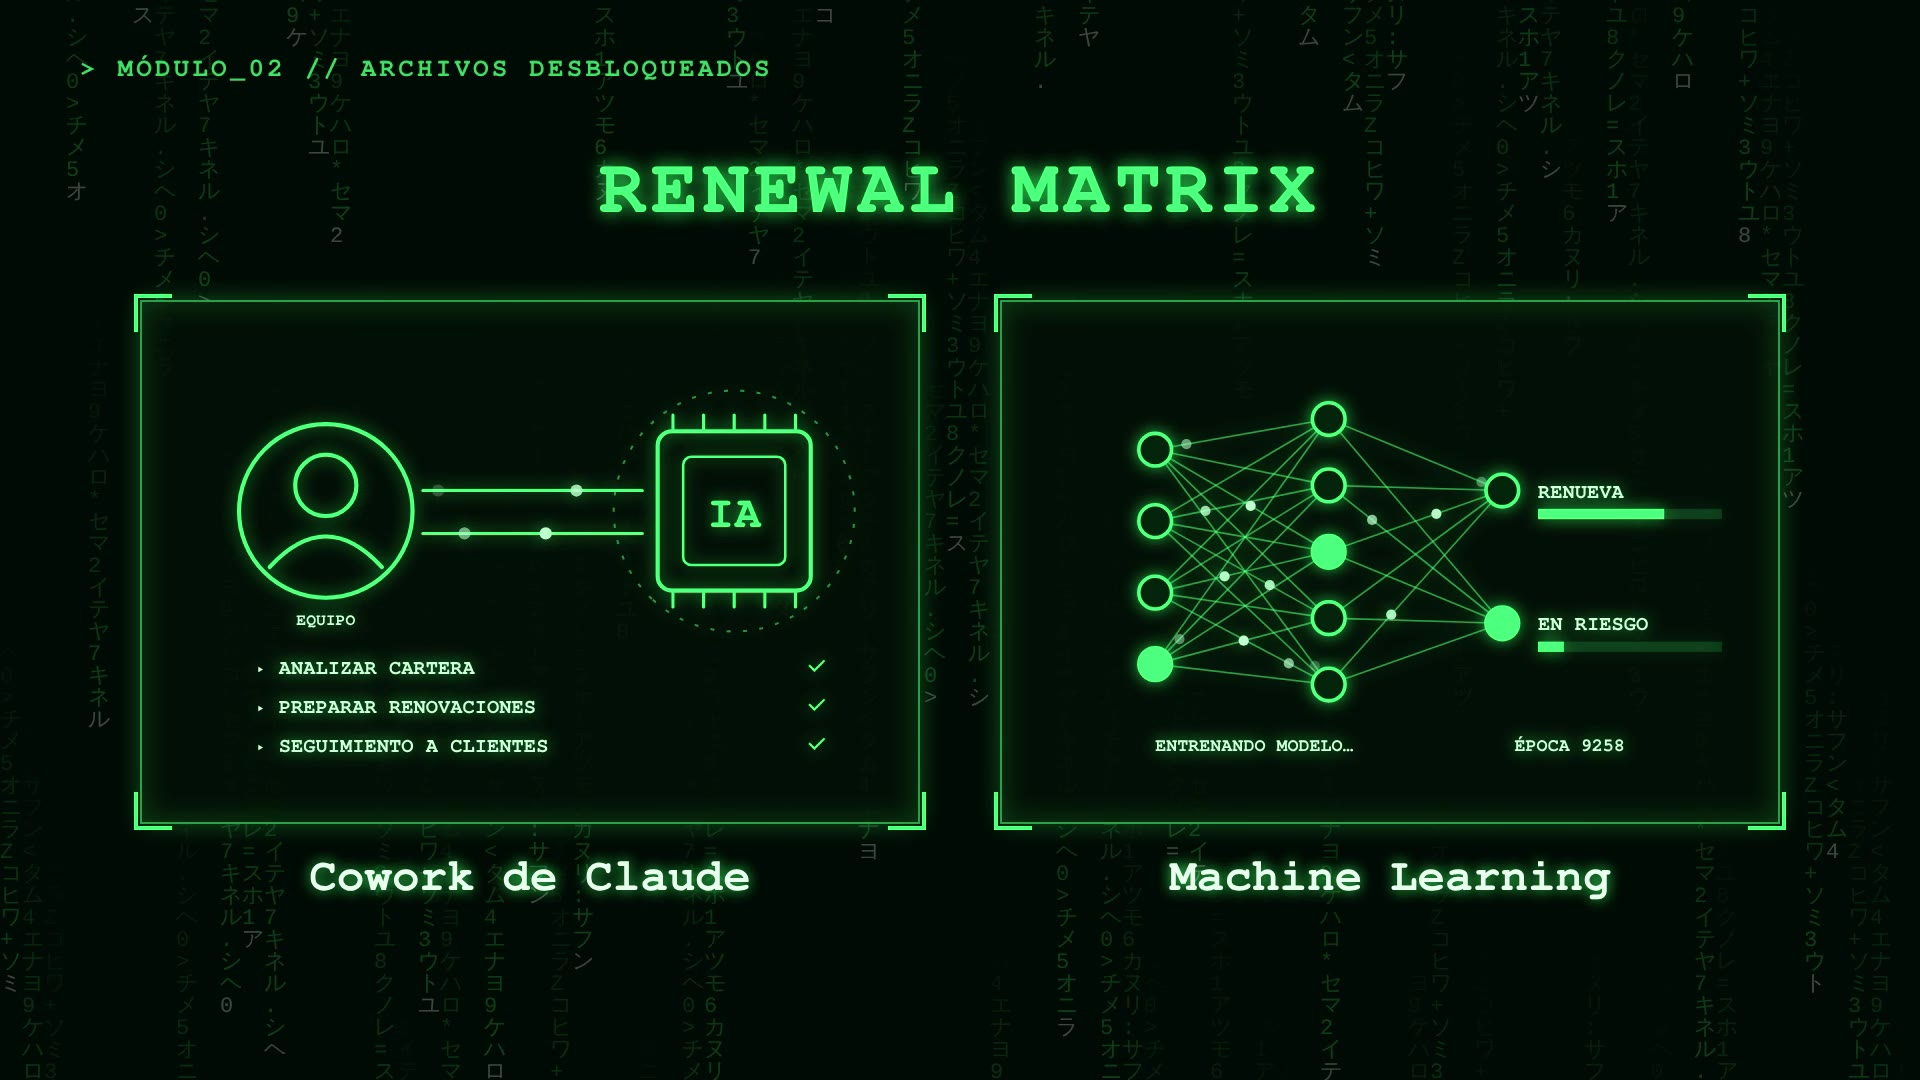
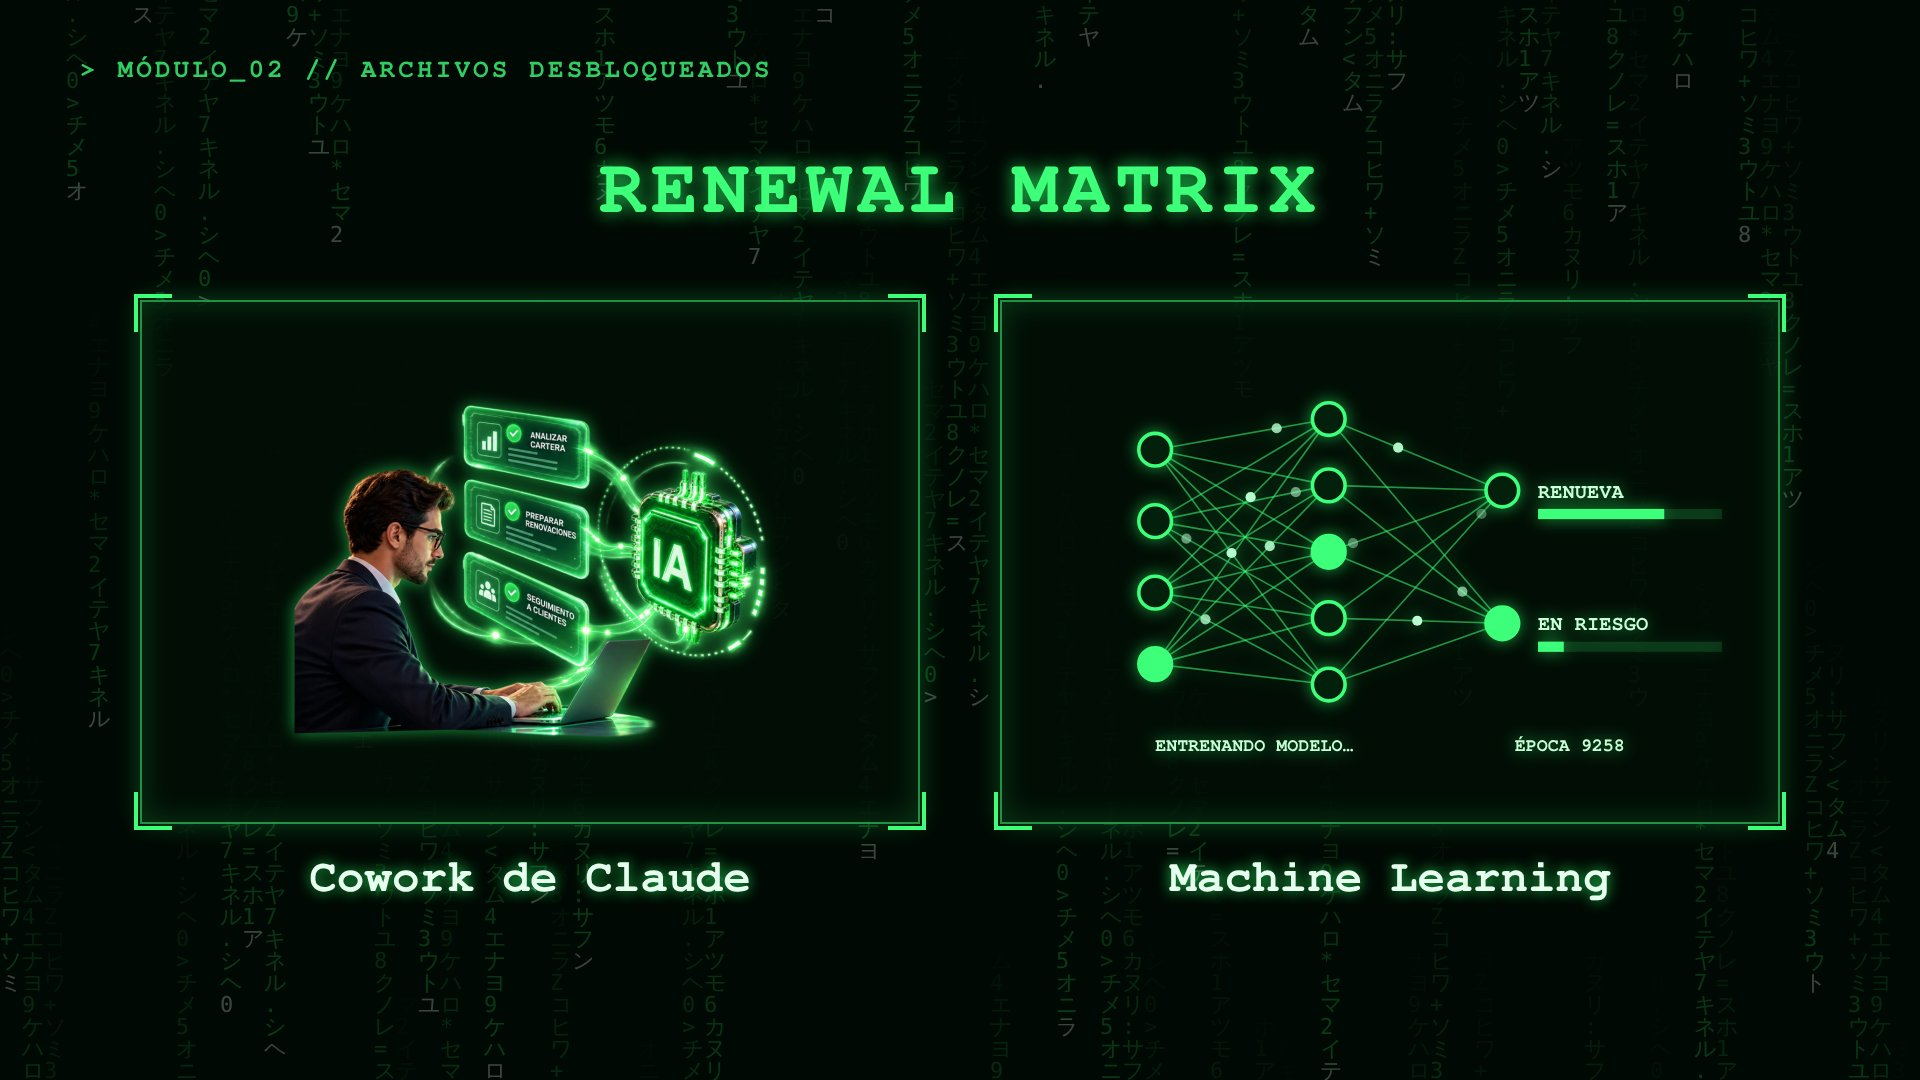
Matrix PPT2: imagen para Cowork de Claude
Claude-Session: https://claude.ai/code/session_01TNESLuQNUwZZ73yDMFRmWn

diff --git a/videos/matrix-2026/compositions/m2-ppt.html b/videos/matrix-2026/compositions/m2-ppt.html
@@ -32,19 +32,7 @@
   <div id="mod" class="abs"></div>
   <div id="h" class="abs"></div>
   <div id="c1" class="abs card">
-    <div class="marco"><svg class="ico" viewBox="0 0 760 440">
-      <g id="anA" opacity=".5"><circle cx="580" cy="170" r="118" stroke="#3dff7a" stroke-width="2" fill="none" stroke-dasharray="4 12"/></g>
-      <circle stroke="#3dff7a" fill="none" stroke-linecap="round" stroke-linejoin="round" pathLength="1" class="tr" stroke-width="4" cx="180" cy="170" r="85"/>
-      <circle stroke="#3dff7a" fill="none" stroke-linecap="round" stroke-linejoin="round" pathLength="1" class="tr" stroke-width="4" cx="180" cy="145" r="30"/><path stroke="#3dff7a" fill="none" stroke-linecap="round" stroke-linejoin="round" pathLength="1" class="tr" stroke-width="4" d="M125 225 Q180 165 235 225"/>
-      <text font-family="Maquina, monospace" fill="#c8ffd8" font-size="16" x="180" y="282" text-anchor="middle" class="fx" data-t="1.8">EQUIPO</text>
-      <rect stroke="#3dff7a" fill="none" stroke-linecap="round" stroke-linejoin="round" pathLength="1" class="tr" stroke-width="4" x="505" y="92" width="150" height="156" rx="14"/>
-      <rect stroke="#3dff7a" fill="none" stroke-linecap="round" stroke-linejoin="round" pathLength="1" class="tr" stroke-width="2.5" x="530" y="117" width="100" height="106" rx="8"/><path stroke="#3dff7a" fill="none" stroke-linecap="round" stroke-linejoin="round" pathLength="1" class="tr" stroke-width="3" d="M520 92 v-16 M520 248 v16"/><path stroke="#3dff7a" fill="none" stroke-linecap="round" stroke-linejoin="round" pathLength="1" class="tr" stroke-width="3" d="M550 92 v-16 M550 248 v16"/><path stroke="#3dff7a" fill="none" stroke-linecap="round" stroke-linejoin="round" pathLength="1" class="tr" stroke-width="3" d="M580 92 v-16 M580 248 v16"/><path stroke="#3dff7a" fill="none" stroke-linecap="round" stroke-linejoin="round" pathLength="1" class="tr" stroke-width="3" d="M610 92 v-16 M610 248 v16"/><path stroke="#3dff7a" fill="none" stroke-linecap="round" stroke-linejoin="round" pathLength="1" class="tr" stroke-width="3" d="M640 92 v-16 M640 248 v16"/>
-      <text font-family="Maquina, monospace" font-size="44" fill="#3dff7a" x="580" y="186" text-anchor="middle" class="fx" data-t="1.9">IA</text>
-      <path stroke="#3dff7a" fill="none" stroke-linecap="round" stroke-linejoin="round" pathLength="1" class="tr" stroke-width="3" d="M275 150 H490"/><path stroke="#3dff7a" fill="none" stroke-linecap="round" stroke-linejoin="round" pathLength="1" class="tr" stroke-width="3" d="M490 192 H275"/>
-      <circle class="pul" data-a="275,150,490,150" r="6" fill="#b9ffd0" opacity="0"/><circle class="pul" data-a="275,150,490,150" r="6" fill="#b9ffd0" opacity="0"/>
-      <circle class="pul" data-a="490,192,275,192" r="6" fill="#b9ffd0" opacity="0"/><circle class="pul" data-a="490,192,275,192" r="6" fill="#b9ffd0" opacity="0"/>
-      <text font-family="Maquina, monospace" fill="#c8ffd8" font-size="20" x="110" y="330" class="fx" data-t="2.4">▸ ANALIZAR CARTERA</text><text font-family="Maquina, monospace" font-size="24" fill="#3dff7a" x="650" y="330" class="fx" data-t="2.8">✓</text><text font-family="Maquina, monospace" fill="#c8ffd8" font-size="20" x="110" y="368" class="fx" data-t="2.75">▸ PREPARAR RENOVACIONES</text><text font-family="Maquina, monospace" font-size="24" fill="#3dff7a" x="650" y="368" class="fx" data-t="3.15">✓</text><text font-family="Maquina, monospace" fill="#c8ffd8" font-size="20" x="110" y="406" class="fx" data-t="3.0999999999999996">▸ SEGUIMIENTO A CLIENTES</text><text font-family="Maquina, monospace" font-size="24" fill="#3dff7a" x="650" y="406" class="fx" data-t="3.5">✓</text>
-    </svg><div class="tapa abs"></div><div class="scan abs"></div>
+    <div class="marco"><img class="ico" src="../assets/iconos/cowork.png" style="object-fit:contain;padding:18px;box-sizing:border-box" alt="Cowork de Claude"/><div class="tapa abs"></div><div class="scan abs"></div>
       <i class="esq a"></i><i class="esq b"></i><i class="esq c"></i><i class="esq d"></i></div>
     <div class="tit" id="t1"></div>
   </div>
@@ -109,7 +97,6 @@
   cifras.forEach(d => d.dataset.base = d.textContent);
   const nodos = [...document.querySelectorAll(".nodo")];
   function hud(t) {
-    document.getElementById("anA").setAttribute("transform", `rotate(${t * 14} 580 170)`);
     fx.forEach(e => e.style.opacity = t >= +e.dataset.t ? 1 : 0);
     // las cifras nunca se fijan: se ven "descifrándose" (no son datos reales)
     cifras.forEach((e, k) => { e.style.opacity = t >= +e.dataset.t ? 1 : 0; e.textContent = e.dataset.base.replace(/0/g, (m, j) => D10[(Math.floor(t * 14) * 7 + j * 3 + k * 5) % 10]); });
@@ -139,6 +126,7 @@
     tl.fromTo(c + " .tr", { strokeDashoffset: 1 }, { strokeDashoffset: 0, duration: 0.9, stagger: 0.12, ease: "power1.inOut", immediateRender: false }, d + 0.5);
   });
   window.__timelines = window.__timelines || {};
+  tl.fromTo("#c1 .ico", { y: 0 }, { y: -10, duration: 1.6, ease: "sine.inOut", repeat: 5, yoyo: true, immediateRender: false }, 2.0);
   window.__timelines["m2-ppt"] = tl;
   pintar(); tl.seek(0);
   // modo presentación: tras la entrada, la lluvia sigue en bucle
